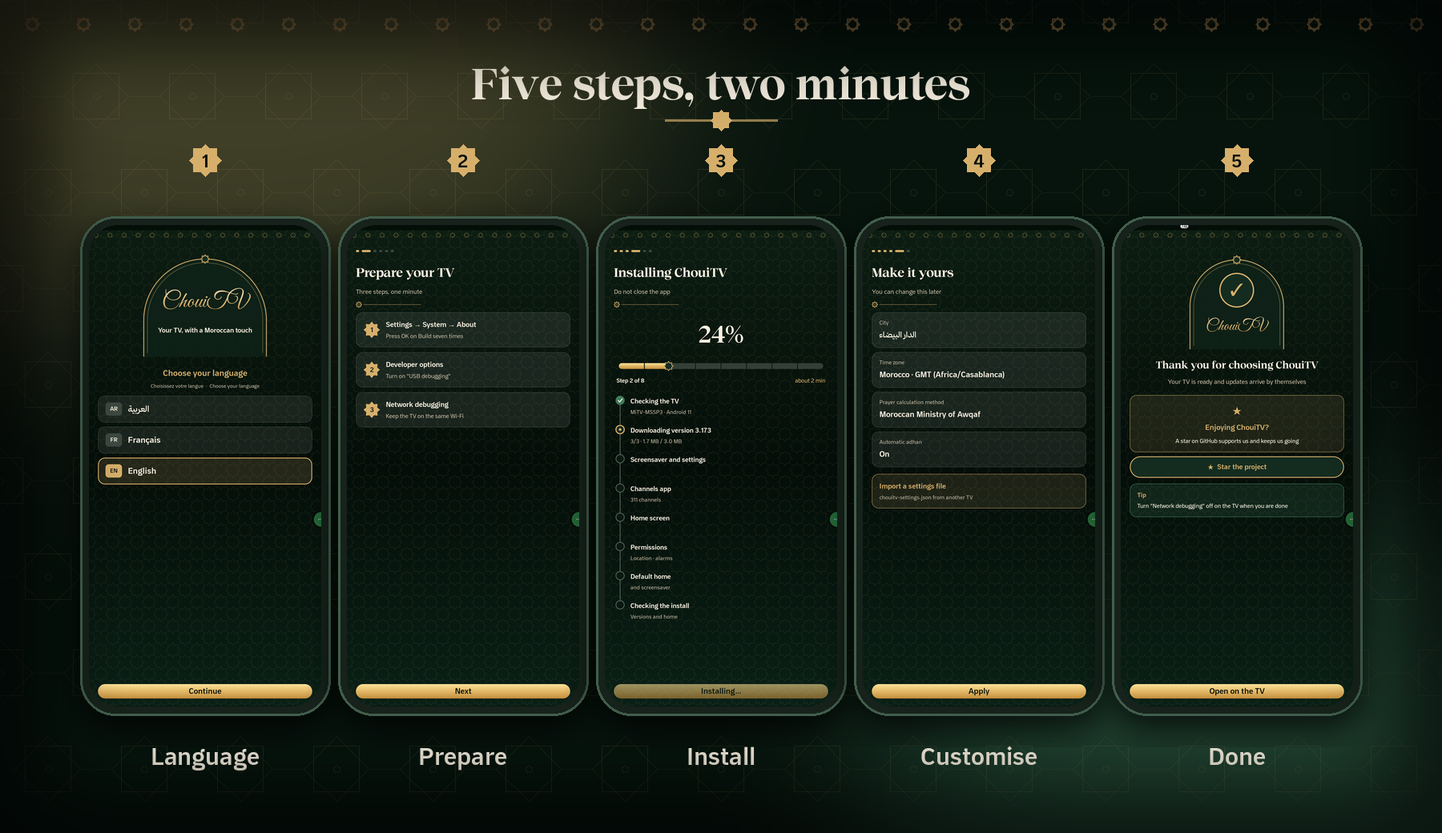
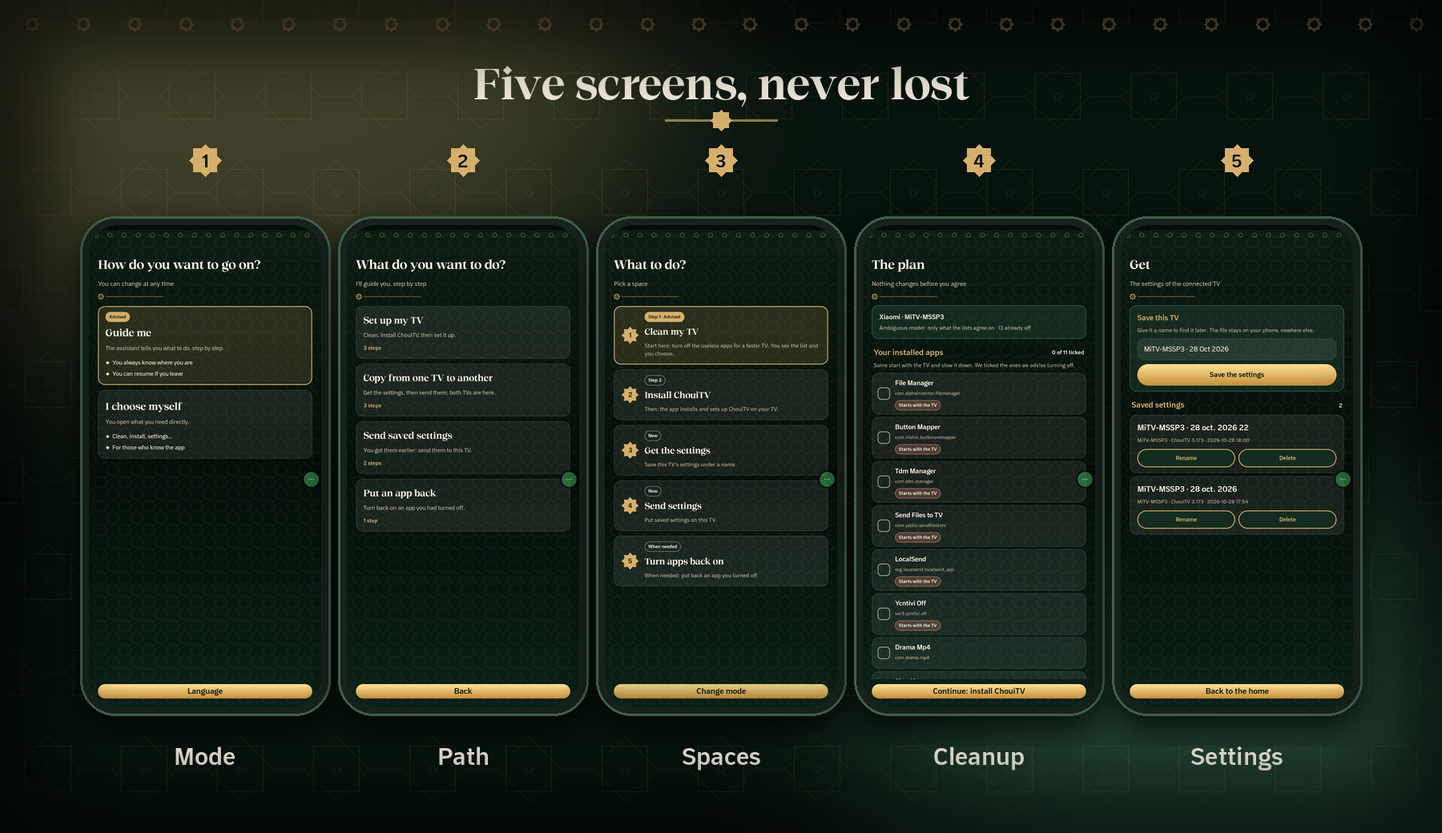
README 1.2: guided or free mode, five spaces, per-app cleanup, settings between TVs; new screenshots in three languages

diff --git a/README.md b/README.md
@@ -11,11 +11,11 @@
 <a href="https://github.com/EMCHOUIT/ChouiTV-Installer/stargazers"><img src="https://img.shields.io/github/stars/EMCHOUIT/ChouiTV-Installer?style=flat&color=D6AF6B&labelColor=0A1D14" alt="stars"></a>
 </p>
 
-<p align="center"><a href="#why">✨ لماذا</a> · <a href="#journey">🚀 الرحلة</a> · <a href="#installs">📦 ما يثبّته</a> · <a href="#safety">🛡 الأمان</a> · <a href="#cleanup">🧹 التنظيف</a> · <a href="#faq">❓ أسئلة</a> · <a href="#build">🛠 البناء</a> · <a href="#download">⬇ التحميل</a></p>
+<p align="center"><a href="#why">✨ لماذا</a> · <a href="#journey">🚀 الرحلة</a> · <a href="#installs">📦 ما يثبّته</a> · <a href="#safety">🛡 الأمان</a> · <a href="#cleanup">🧹 التنظيف</a> · <a href="#settings">🔁 الإعدادات</a> · <a href="#faq">❓ أسئلة</a> · <a href="#build">🛠 البناء</a> · <a href="#download">⬇ التحميل</a></p>
 
 <div dir="rtl" align="right">
 
-تطبيق صغير على هاتفك يجد تلفزيونك، وينزّل **أحدث إصدار** من [ChouiTV](https://github.com/EMCHOUIT/ChouiTV)، ويثبّته ويضبطه. **بلا كمبيوتر، بلا أوامر، في نحو دقيقتين.**
+تطبيق صغير على هاتفك يجد تلفزيونك، فينظّفه إن شئت، وينزّل **أحدث إصدار** من [ChouiTV](https://github.com/EMCHOUIT/ChouiTV) ويثبّته ويضبطه، ثم ينقل إعداداتك إلى تلفزيون آخر. **يرشدك خطوة بخطوة، أو تختار بنفسك. بلا كمبيوتر ولا أوامر.**
 
 <p align="center"><a href="https://github.com/EMCHOUIT/ChouiTV-Installer/releases/latest/download/ChouiTV-Installer.apk"><img src="https://img.shields.io/badge/%E2%AC%87%20نزّل%20ChouiTV%20Installer-D6AF6B?style=for-the-badge&labelColor=0A1D14" alt="download"></a><br><sub>لهاتف أندرويد 8 أو أحدث · الملف نحو 1 ميغابايت</sub></p>
 
@@ -24,25 +24,25 @@
 ## ✨ لماذا هذا التطبيق؟
 
 <table dir="rtl">
-<tr><td width="50%" valign="top">💻<br><b>بلا كمبيوتر</b><br><sub>كل شيء من الهاتف: الاتصال والتنزيل والتثبيت والضبط.</sub></td><td width="50%" valign="top">📊<br><b>تتابع كل شيء</b><br><sub>نسبة مئوية عامة، وثماني خطوات تراها تتقدّم واحدة بعد الأخرى.</sub></td></tr>
-<tr><td width="50%" valign="top">🛡<br><b>بشبكة أمان</b><br><sub>إن لم تفتح الواجهة الجديدة، يعيد التلفزيون واجهته الأصلية وحده.</sub></td><td width="50%" valign="top">🌍<br><b>بلغتك</b><br><sub>العربية والفرنسية والإنجليزية، بنفس العناية.</sub></td></tr>
+<tr><td width="50%" valign="top">🧭<br><b>يرشدك أو تختار</b><br><sub>أسلوب «دعني أُرشَد» بمساعد خطوة بخطوة، أو «أختار بنفسي» لخمس مساحات مباشرة.</sub></td><td width="50%" valign="top">🧹<br><b>تنظيف تتحكّم فيه</b><br><sub>خانة لكل تطبيق، بأسماء مفهومة، ولا شيء دون موافقتك.</sub></td></tr>
+<tr><td width="50%" valign="top">🔁<br><b>إعداداتك تتنقّل</b><br><sub>احفظ إعدادات تلفزيون باسم، وأرسلها إلى آخر الآن أو لاحقًا.</sub></td><td width="50%" valign="top">🛡<br><b>كل شيء قابل للتراجع</b><br><sub>تُوقَف التطبيقات ولا تُحذف، وشبكة أمان على التلفزيون.</sub></td></tr>
 </table>
 
 <a id="journey"></a>
 
-## 🚀 الرحلة في خمس خطوات
+## 🚀 الرحلة في خمس شاشات
 
 </div>
 
-<img src="docs/media/journey-ar.png" alt="🚀 الرحلة في خمس خطوات" width="100%">
+<img src="docs/media/journey-ar.png" alt="🚀 الرحلة في خمس شاشات" width="100%">
 
 <div dir="rtl" align="right">
 
-1. **اللغة**: اختر العربية أو الفرنسية أو الإنجليزية.
-2. **جهّز التلفزيون**: فعّل «تصحيح USB» و«تصحيح الشبكة»؛ الشرح داخل التطبيق.
-3. **اتصل**: يجد التطبيق تلفزيونك على الواي فاي، وتضغط «السماح» على شاشته.
-4. **ثبّت**: شريط تقدّم ونسبة مئوية وثماني مراحل، من الفحص إلى التحقق.
-5. **خصّص، نظّف اختياريًا، ثم تمّ**: المدينة والمنطقة الزمنية وطريقة حساب الصلاة؛ ثم تنظيف اختياري للتطبيقات المثبّتة مسبقًا؛ ثم شكر.
+1. **اللغة**: العربية أو الفرنسية أو الإنجليزية.
+2. **الأسلوب**: «دعني أُرشَد» (مساعد خطوة بخطوة، يمكنك الاستئناف إن خرجت) أو «أختار بنفسي».
+3. **المسار أو المساحات**: «جهّز تلفزيوني»، «انسخ من تلفزيون إلى آخر»، «أرسل إعدادات محفوظة»، «أعِد تطبيقًا»، أو المساحات الخمس مباشرة.
+4. **التنظيف**: ترى الخطة قبل أي تغيير، وتؤشّر على ما لا تستعمله.
+5. **التثبيت والضبط**: شريط تقدّم ونسبة مئوية، ثم المدينة والمنطقة الزمنية وطريقة حساب الصلاة.
 
 <a id="installs"></a>
 
@@ -62,7 +62,7 @@
 
 - **شبكة أمان**: قبل تعطيل واجهة التلفزيون الأصلية يضع التطبيق عليه سكربتًا يعيدها وحده بعد 5 دقائق إن لم يفتح ChouiTV.
 - **احترام تلفزيونك**: إن رفض تعطيل واجهته (مثل Nokia Streaming Box 8000) تبقى كما هي ويُخبَر المستخدم.
-- **تنظيف بلا مخاطرة**: التنظيف اختياري، يوقف التطبيقات ولا يحذفها، ويفحص التلفزيون بعد كل مجموعة ويعيدها وحده إن ساء الحال.
+- **تنظيف بلا مخاطرة**: التنظيف اختياري، يوقف التطبيقات ولا يحذفها، ويفحص التلفزيون بعد كل مجموعة ويعيدها وحده إن ساء الحال، وتعيد أي تطبيق من مساحة «أعِد تفعيل تطبيقات».
 - **خصوصية**: بلا حسابات ولا إعلانات ولا تتبّع، والمفتاح الذي يعرّف هاتفك يبقى فيه.
 
 </div>
@@ -83,15 +83,33 @@
 
 <div dir="rtl" align="right">
 
-تعرض عليك بعض التلفزيونات (Xiaomi وTCL وغيرها) تطبيقات مثبّتة مسبقًا لا تحتاجها: تتبّع وإحصاءات وإعلانات وخدمات تبطئ الجهاز. بعد التثبيت يقترح عليك التطبيق **تنظيفًا اختياريًا**.
+تأتي بعض التلفزيونات (Xiaomi وTCL وغيرها) بتطبيقات مثبّتة مسبقًا لا تحتاجها: تتبّع وإحصاءات وإعلانات وخدمات تبطئ الجهاز. وقد تكون لديك تطبيقات تبدأ مع التلفزيون ولا تستعملها. **التنظيف اختياري، وأنت من يقرّر.**
 
-- **يوقف ولا يحذف**: كل تطبيق يعود بلمسة واحدة من «استرجاع» في الشاشة الأولى.
-- **ترى الخطة قبل أي شيء**: الأسماء مجمّعة (التتبع، الإعلانات، المثبّتة مسبقًا، الاختيارية) وتختار ما تريد.
-- **قوائم مدروسة**: قائمة ChouiTV لتلفزيونات TCL، وقوائم مجتمعية لطراز تلفزيونك، وإن لم يُعرف الطراز فقط ما اتفقت عليه عدة قوائم.
+- **خانة لكل تطبيق**: «مثبّتة مسبقًا» (مؤشَّرة مسبقًا)، و«البث والترفيه» (Netflix وPrime Video وغيرها، غير مؤشَّرة)، و«تطبيقاتك المثبّتة» مع توصية على ما يبدأ مع التلفزيون ويبطئه.
+- **أسماء مفهومة**: اسم التطبيق وتحته اسم الحزمة.
+- **تأكيد قبل البدء**: تراجع القائمة وتترك بلا علامة ما تستعمله، فيبقى كما هو.
+- **يوقف ولا يحذف**: ويفحص التلفزيون بعد كل مجموعة، ويعيدها وحده إن ساء الحال، وإن انقطع الاتصال أعاد التلفزيون كل شيء خلال 5 دقائق.
 - **محمي دائمًا**: ChouiTV وخدمات Google والإعدادات وأي واجهة رئيسية.
-- **يفحص التلفزيون بعد كل مجموعة**: إن ساء الحال تُعاد المجموعة وحدها ويتوقف التنظيف، وإن انقطع الاتصال أعاد التلفزيون كل شيء خلال 5 دقائق.
+- **أعِد أي تطبيق متى شئت**: من مساحة «أعِد تفعيل تطبيقات»، وهي تقرأ ما هو موقوف على التلفزيون نفسه.
 
-نقطة الاسترجاع تُحفظ على الهاتف وعلى التلفزيون.
+</div>
+
+<a id="settings"></a>
+
+## 🔁 انسخ إعداداتك إلى تلفزيون آخر
+
+<img src="docs/media/settings-ar.png" alt="🔁 انسخ إعداداتك إلى تلفزيون آخر" width="100%">
+
+<div dir="rtl" align="right">
+
+استعمل مساحتَي **استرجاع إعدادات** و**إرسال إعدادات** (أو مسار «انسخ من تلفزيون إلى آخر» بمساعد).
+
+- **احفظ باسم تختاره**: تحفظ إعدادات التلفزيون المتصل (المدينة، الصلاة، الأذان، اللوحات، الفرق، اختصارات الرئيسية…) على هاتفك فقط.
+- **أرسل الآن أو لاحقًا**: إن كان التلفزيونان معًا فأرسل فورًا، وإلا خذ الإعدادات معك وأرسلها من «أرسل إعدادات محفوظة».
+- **معاينة وتراجع**: ترى التغييرات قبل التطبيق، ويحتفظ الإرسال بنسخة من الإعدادات السابقة.
+- **لا يُحفظ أبدًا**: عنوان IP أو اسم الواي فاي، الرقم التسلسلي، صورك ومهامك.
+
+يلزم ChouiTV 3.173 أو أحدث على التلفزيونين.
 
 <a id="faq"></a>
 
@@ -124,7 +142,17 @@
 
 <details><summary><b>كيف أتراجع عن التنظيف؟</b></summary>
 
-من الشاشة الأولى اختر «استرجاع ما أوقفه التنظيف»، ثم أعد تطبيقًا واحدًا أو الكل. وعلى التلفزيون نسخة نصية في `/data/local/tmp/chouitv-restore.txt`.
+افتح مساحة «أعِد تفعيل تطبيقات» وأشّر على ما تريد إرجاعه: تقرأ ما هو موقوف على التلفزيون نفسه، فيصلح أي هاتف. وعلى التلفزيون نسخة نصية في `/data/local/tmp/chouitv-restore.txt`.
+</details>
+
+<details><summary><b>ما الفرق بين «دعني أُرشَد» و«أختار بنفسي»؟</b></summary>
+
+الأول مساعد يخبرك بما تفعل خطوة بخطوة ويتيح الاستئناف إن خرجت. الثاني يفتح مباشرةً المساحات الخمس. ويمكنك تغيير الأسلوب في أي وقت.
+</details>
+
+<details><summary><b>كيف أنقل إعداداتي إلى تلفزيون آخر؟</b></summary>
+
+من «انسخ من تلفزيون إلى آخر»: تحفظ إعدادات التلفزيون الأول باسم، ثم ترسلها الآن إن كان التلفزيونان معًا، أو لاحقًا من «أرسل إعدادات محفوظة». يلزم ChouiTV 3.173 أو أحدث على التلفزيونين، وتُعرض المعاينة قبل التطبيق ويمكن التراجع.
 </details>
 
 <a id="build"></a>

diff --git a/README.fr.md b/README.fr.md
@@ -11,9 +11,9 @@
 <a href="https://github.com/EMCHOUIT/ChouiTV-Installer/stargazers"><img src="https://img.shields.io/github/stars/EMCHOUIT/ChouiTV-Installer?style=flat&color=D6AF6B&labelColor=0A1D14" alt="stars"></a>
 </p>
 
-<p align="center"><a href="#why">✨ Pourquoi</a> · <a href="#journey">🚀 Le parcours</a> · <a href="#installs">📦 Installé</a> · <a href="#safety">🛡 Sécurité</a> · <a href="#cleanup">🧹 Nettoyage</a> · <a href="#faq">❓ FAQ</a> · <a href="#build">🛠 Compiler</a> · <a href="#download">⬇ Téléchargement</a></p>
+<p align="center"><a href="#why">✨ Pourquoi</a> · <a href="#journey">🚀 Le parcours</a> · <a href="#installs">📦 Installé</a> · <a href="#safety">🛡 Sécurité</a> · <a href="#cleanup">🧹 Nettoyage</a> · <a href="#settings">🔁 Réglages</a> · <a href="#faq">❓ FAQ</a> · <a href="#build">🛠 Compiler</a> · <a href="#download">⬇ Téléchargement</a></p>
 
-Une petite appli sur votre téléphone qui trouve votre télé, télécharge la **dernière version** de [ChouiTV](https://github.com/EMCHOUIT/ChouiTV), l'installe et la règle. **Sans ordinateur, sans commande, en environ deux minutes.**
+Une petite appli sur votre téléphone qui trouve votre télé, la nettoie si vous le voulez, télécharge la **dernière version** de [ChouiTV](https://github.com/EMCHOUIT/ChouiTV), l'installe et la règle, puis copie vos réglages sur une autre télé. **Elle vous guide pas à pas, ou vous choisissez vous-même. Sans ordinateur, sans commande.**
 
 <p align="center"><a href="https://github.com/EMCHOUIT/ChouiTV-Installer/releases/latest/download/ChouiTV-Installer.apk"><img src="https://img.shields.io/badge/%E2%AC%87%20Télécharger%20ChouiTV%20Installer-D6AF6B?style=for-the-badge&labelColor=0A1D14" alt="download"></a><br><sub>Pour téléphone Android 8 ou plus · environ 1 Mo</sub></p>
 
@@ -22,21 +22,21 @@ Une petite appli sur votre téléphone qui trouve votre télé, télécharge la 
 ## ✨ Pourquoi cette appli ?
 
 <table>
-<tr><td width="50%" valign="top">💻<br><b>Sans ordinateur</b><br><sub>Tout se fait depuis le téléphone : connexion, téléchargement, installation, réglages.</sub></td><td width="50%" valign="top">📊<br><b>Vous voyez tout</b><br><sub>Un pourcentage global et huit étapes qui avancent une à une sous vos yeux.</sub></td></tr>
-<tr><td width="50%" valign="top">🛡<br><b>Avec filet de sécurité</b><br><sub>Si le nouvel accueil ne s'ouvre pas, la télé rétablit seule le sien.</sub></td><td width="50%" valign="top">🌍<br><b>Dans votre langue</b><br><sub>Arabe, français et anglais, avec le même soin.</sub></td></tr>
+<tr><td width="50%" valign="top">🧭<br><b>Guidé ou libre</b><br><sub>Un assistant pas à pas, ou cinq espaces à ouvrir directement.</sub></td><td width="50%" valign="top">🧹<br><b>Un nettoyage que vous contrôlez</b><br><sub>Une case par appli, avec des noms lisibles, et rien sans votre accord.</sub></td></tr>
+<tr><td width="50%" valign="top">🔁<br><b>Vos réglages voyagent</b><br><sub>Enregistrez les réglages d'une télé sous un nom, envoyez-les à une autre, maintenant ou plus tard.</sub></td><td width="50%" valign="top">🛡<br><b>Tout est annulable</b><br><sub>Les applis sont coupées, pas supprimées, avec un filet de sécurité sur la télé.</sub></td></tr>
 </table>
 
 <a id="journey"></a>
 
-## 🚀 Le parcours en cinq étapes
+## 🚀 Le parcours en cinq écrans
 
-<img src="docs/media/journey-fr.png" alt="🚀 Le parcours en cinq étapes" width="100%">
+<img src="docs/media/journey-fr.png" alt="🚀 Le parcours en cinq écrans" width="100%">
 
 1. **Langue** : arabe, français ou anglais.
-2. **Préparez la télé** : activez le « Débogage USB » et le « Débogage réseau » ; c'est expliqué dans l'appli.
-3. **Connectez-vous** : l'appli trouve la télé sur le Wi-Fi, vous appuyez sur « Autoriser » sur son écran.
-4. **Installation** : une barre avec pourcentage et huit étapes, de la vérification au contrôle final.
-5. **Personnalisez, nettoyez (facultatif), puis c'est fini** : ville, fuseau horaire, méthode de prière ; un nettoyage facultatif des applis préinstallées ; un merci.
+2. **Le mode** : « Je me laisse guider » (un assistant pas à pas, avec reprise si vous quittez) ou « Je choisis moi-même ».
+3. **Le parcours ou les espaces** : « Équiper ma télé », « Copier d'une télé à l'autre », « Envoyer des réglages enregistrés », « Remettre une appli », ou les cinq espaces directement.
+4. **Le nettoyage** : vous voyez le plan avant tout changement et vous cochez ce que vous n'utilisez pas.
+5. **Installation et réglages** : une barre avec pourcentage, puis ville, fuseau horaire et méthode de prière.
 
 <a id="installs"></a>
 
@@ -56,7 +56,7 @@ L'appli lit la version dans [`latest.json`](https://raw.githubusercontent.com/EM
 
 - **Filet de sécurité** : avant de couper l'accueil d'origine, l'appli arme sur la télé un script qui le rétablit tout seul au bout de 5 minutes si ChouiTV ne s'ouvre pas.
 - **Respect de votre télé** : si elle refuse de couper son accueil (comme la Nokia Streaming Box 8000), il est conservé et vous en êtes informé.
-- **Nettoyage sans risque** : il est facultatif, il coupe sans supprimer, vérifie la télé après chaque groupe et remet tout en place si elle va mal.
+- **Nettoyage sans risque** : il est facultatif, il coupe sans supprimer, vérifie la télé après chaque groupe et remet tout en place si elle va mal ; l'espace « Réactiver des applis » remet une appli à la demande.
 - **Vie privée** : pas de compte, pas de publicité, pas de suivi ; la clé qui identifie votre téléphone y reste.
 
 > [!TIP]
@@ -69,15 +69,29 @@ L'appli lit la version dans [`latest.json`](https://raw.githubusercontent.com/EM
 
 <img src="docs/media/cleanup-fr.png" alt="🧹 Nettoyez votre télé en sécurité" width="100%">
 
-Certaines télés (Xiaomi, TCL, etc.) arrivent avec des applis préinstallées dont vous n'avez pas besoin : suivi, statistiques, publicités, services qui ralentissent l'appareil. Après l'installation, l'appli vous propose un **nettoyage facultatif**.
+Certaines télés (Xiaomi, TCL, etc.) arrivent avec des applis préinstallées dont vous n'avez pas besoin : suivi, statistiques, publicités, services qui ralentissent l'appareil. Vous avez aussi peut-être des applis qui démarrent avec la télé sans que vous les utilisiez. **Le nettoyage est facultatif, et c'est vous qui décidez.**
 
-- **On coupe, on ne supprime pas** : chaque appli revient en un geste depuis « Restaurer » sur le premier écran.
-- **Vous voyez le plan avant tout** : les applis sont rangées par groupe (suivi, publicités, préinstallées, facultatives) et vous choisissez.
-- **Des listes réfléchies** : la liste ChouiTV pour les TCL, des listes communautaires pour le modèle de votre télé, et si le modèle est inconnu, seulement ce sur quoi plusieurs listes s'accordent.
+- **Une case par appli** : « Applis préinstallées » (cochées d'avance), « Streaming et divertissement » (Netflix, Prime Video… décochées) et « Vos applis installées », avec un conseil pour celles qui démarrent avec la télé et la ralentissent.
+- **Des noms lisibles** : le nom de l'appli, son paquet en dessous.
+- **Une confirmation avant de commencer** : vous relisez la liste et laissez décochées celles que vous utilisez, elles restent intactes.
+- **On coupe, on ne supprime pas** : la télé est vérifiée après chaque groupe, remise en place si elle va mal, et si la connexion est perdue elle remet tout d'elle-même au bout de 5 minutes.
 - **Toujours protégé** : ChouiTV, les services Google, les réglages et tout écran d'accueil.
-- **La télé est vérifiée après chaque groupe** : si elle va mal, le groupe est remis en place et le nettoyage s'arrête ; si la connexion est perdue, la télé remet tout en place d'elle-même au bout de 5 minutes.
+- **Remettez une appli quand vous voulez** : l'espace « Réactiver des applis » lit ce qui est coupé sur la télé elle-même.
 
-Le point de restauration est gardé sur le téléphone et sur la télé.
+<a id="settings"></a>
+
+## 🔁 Copiez vos réglages sur une autre télé
+
+<img src="docs/media/settings-fr.png" alt="🔁 Copiez vos réglages sur une autre télé" width="100%">
+
+Utilisez les espaces **Récupérer des réglages** et **Envoyer des réglages** (ou le parcours guidé « Copier d'une télé à l'autre »).
+
+- **Enregistrez sous un nom** : les réglages de la télé connectée (ville, prière, adhan, panneaux, équipes, raccourcis de l'accueil…) sont gardés sur votre téléphone, nulle part ailleurs.
+- **Envoyez maintenant ou plus tard** : si les deux télés sont ensemble, envoyez tout de suite ; sinon emportez les réglages et envoyez-les depuis « Envoyer des réglages enregistrés ».
+- **Aperçu et annulation** : vous voyez les changements avant de les appliquer, et l'envoi garde une copie des réglages précédents.
+- **Jamais enregistré** : l'adresse IP ou le nom du Wi-Fi, le numéro de série, vos photos et vos tâches.
+
+ChouiTV 3.173 ou plus est nécessaire sur les deux télés.
 
 <a id="faq"></a>
 
@@ -110,7 +124,17 @@ Il est facultatif, il coupe sans supprimer, vous montre le plan d'abord et véri
 
 <details><summary><b>Comment annuler un nettoyage ?</b></summary>
 
-Depuis le premier écran, choisissez « Restaurer après un nettoyage », puis remettez une appli ou toutes. Une copie en texte est aussi sur la télé : `/data/local/tmp/chouitv-restore.txt`.
+Ouvrez l'espace « Réactiver des applis » et cochez celles que vous voulez remettre : il lit ce qui est coupé sur la télé elle-même, n'importe quel téléphone peut donc le faire. Une copie en texte est aussi sur la télé : `/data/local/tmp/chouitv-restore.txt`.
+</details>
+
+<details><summary><b>Quelle différence entre « Je me laisse guider » et « Je choisis moi-même » ?</b></summary>
+
+Le premier est un assistant qui vous dit quoi faire étape par étape et permet de reprendre si vous quittez. Le second ouvre directement les cinq espaces. Vous pouvez changer de mode à tout moment.
+</details>
+
+<details><summary><b>Comment copier mes réglages sur une autre télé ?</b></summary>
+
+Avec « Copier d'une télé à l'autre » : vous enregistrez les réglages de la première télé sous un nom, puis vous les envoyez tout de suite si les deux télés sont ensemble, ou plus tard depuis « Envoyer des réglages enregistrés ». ChouiTV 3.173 ou plus est nécessaire sur les deux télés ; l'aperçu s'affiche avant d'appliquer et l'envoi peut s'annuler.
 </details>
 
 <a id="build"></a>

diff --git a/README.en.md b/README.en.md
@@ -11,9 +11,9 @@
 <a href="https://github.com/EMCHOUIT/ChouiTV-Installer/stargazers"><img src="https://img.shields.io/github/stars/EMCHOUIT/ChouiTV-Installer?style=flat&color=D6AF6B&labelColor=0A1D14" alt="stars"></a>
 </p>
 
-<p align="center"><a href="#why">✨ Why</a> · <a href="#journey">🚀 The journey</a> · <a href="#installs">📦 Installed</a> · <a href="#safety">🛡 Safety</a> · <a href="#cleanup">🧹 Cleanup</a> · <a href="#faq">❓ FAQ</a> · <a href="#build">🛠 Build</a> · <a href="#download">⬇ Download</a></p>
+<p align="center"><a href="#why">✨ Why</a> · <a href="#journey">🚀 The journey</a> · <a href="#installs">📦 Installed</a> · <a href="#safety">🛡 Safety</a> · <a href="#cleanup">🧹 Cleanup</a> · <a href="#settings">🔁 Settings</a> · <a href="#faq">❓ FAQ</a> · <a href="#build">🛠 Build</a> · <a href="#download">⬇ Download</a></p>
 
-A small app on your phone that finds your TV, downloads the **latest version** of [ChouiTV](https://github.com/EMCHOUIT/ChouiTV), installs it and sets it up. **No computer, no commands, in about two minutes.**
+A small app on your phone that finds your TV, cleans it if you want, downloads the **latest version** of [ChouiTV](https://github.com/EMCHOUIT/ChouiTV), installs and sets it up, then copies your settings to another TV. **It guides you step by step, or you choose yourself. No computer, no commands.**
 
 <p align="center"><a href="https://github.com/EMCHOUIT/ChouiTV-Installer/releases/latest/download/ChouiTV-Installer.apk"><img src="https://img.shields.io/badge/%E2%AC%87%20Download%20ChouiTV%20Installer-D6AF6B?style=for-the-badge&labelColor=0A1D14" alt="download"></a><br><sub>For Android 8+ phones · about 1 MB</sub></p>
 
@@ -22,21 +22,21 @@ A small app on your phone that finds your TV, downloads the **latest version** o
 ## ✨ Why this app?
 
 <table>
-<tr><td width="50%" valign="top">💻<br><b>No computer</b><br><sub>Everything happens on the phone: connect, download, install, set up.</sub></td><td width="50%" valign="top">📊<br><b>You see everything</b><br><sub>A global percentage and eight steps moving forward one by one in front of you.</sub></td></tr>
-<tr><td width="50%" valign="top">🛡<br><b>With a safety net</b><br><sub>If the new home does not open, the TV puts its own back by itself.</sub></td><td width="50%" valign="top">🌍<br><b>In your language</b><br><sub>Arabic, French and English, with the same care.</sub></td></tr>
+<tr><td width="50%" valign="top">🧭<br><b>Guided or free</b><br><sub>A step-by-step assistant, or five spaces to open directly.</sub></td><td width="50%" valign="top">🧹<br><b>A cleanup you control</b><br><sub>One box per app, with readable names, and nothing without your say.</sub></td></tr>
+<tr><td width="50%" valign="top">🔁<br><b>Your settings travel</b><br><sub>Save one TV's settings under a name, send them to another, now or later.</sub></td><td width="50%" valign="top">🛡<br><b>Everything can be undone</b><br><sub>Apps are turned off, not deleted, with a safety net on the TV.</sub></td></tr>
 </table>
 
 <a id="journey"></a>
 
-## 🚀 The journey in five steps
+## 🚀 The journey in five screens
 
-<img src="docs/media/journey-en.png" alt="🚀 The journey in five steps" width="100%">
+<img src="docs/media/journey-en.png" alt="🚀 The journey in five screens" width="100%">
 
 1. **Language**: Arabic, French or English.
-2. **Prepare the TV**: turn on "USB debugging" and "Network debugging"; it is explained in the app.
-3. **Connect**: the app finds the TV on the Wi-Fi, and you press "Allow" on its screen.
-4. **Install**: a bar with a percentage and eight steps, from the check to the final verification.
-5. **Make it yours, clean up (optional), then done**: city, time zone, prayer method; an optional cleanup of the preinstalled apps; a thank-you.
+2. **The mode**: "Guide me" (a step-by-step assistant, with resume if you leave) or "I choose myself".
+3. **The path or the spaces**: "Set up my TV", "Copy from one TV to another", "Send saved settings", "Put an app back", or the five spaces directly.
+4. **The cleanup**: you see the plan before any change and tick what you do not use.
+5. **Install and settings**: a bar with a percentage, then city, time zone and prayer method.
 
 <a id="installs"></a>
 
@@ -56,7 +56,7 @@ The app reads the version from [`latest.json`](https://raw.githubusercontent.com
 
 - **Safety net**: before turning the TV's original home off, the app arms a script on the TV that puts it back by itself after 5 minutes if ChouiTV does not open.
 - **Respect for your TV**: if it refuses to turn its home off (like the Nokia Streaming Box 8000), it keeps it and you are told.
-- **Cleanup without risk**: it is optional, turns apps off without deleting them, checks the TV after each group and puts them back if it gets unwell.
+- **Cleanup without risk**: it is optional, turns apps off without deleting them, checks the TV after each group and puts them back if it gets unwell; the "Turn apps back on" space puts an app back whenever you want.
 - **Privacy**: no accounts, no ads, no tracking; the key that identifies your phone stays in it.
 
 > [!TIP]
@@ -69,15 +69,29 @@ The app reads the version from [`latest.json`](https://raw.githubusercontent.com
 
 <img src="docs/media/cleanup-en.png" alt="🧹 Clean your TV, safely" width="100%">
 
-Some TVs (Xiaomi, TCL and others) ship with preinstalled apps you do not need: tracking, analytics, ads, services that slow the device down. After the install the app offers an **optional cleanup**.
+Some TVs (Xiaomi, TCL and others) ship with preinstalled apps you do not need: tracking, analytics, ads, services that slow the device down. You may also have apps that start with the TV without you using them. **The cleanup is optional, and you decide.**
 
-- **Turned off, never deleted**: every app comes back in one tap from "Restore" on the first screen.
-- **You see the plan first**: apps are grouped (tracking, ads, preinstalled, optional) and you choose.
-- **Careful lists**: ChouiTV's list for TCL, community lists for your TV's model, and when the model is unknown only what several lists agree on.
+- **One box per app**: "Preinstalled apps" (ticked for you), "Streaming and entertainment" (Netflix, Prime Video… unticked) and "Your installed apps", with an advice for the ones that start with the TV and slow it down.
+- **Readable names**: the app name, its package below.
+- **A confirmation before it starts**: you look over the list and leave unticked the ones you use, they stay untouched.
+- **Turned off, never deleted**: the TV is checked after each group, put back if it gets unwell, and if the connection is lost it puts everything back by itself within 5 minutes.
 - **Always protected**: ChouiTV, Google services, the settings and any home screen.
-- **The TV is checked after each group**: if it gets unwell the group is put back and the cleanup stops; if the connection is lost the TV puts everything back by itself within 5 minutes.
+- **Put an app back any time**: the "Turn apps back on" space reads what is off on the TV itself.
 
-The restore point is kept on the phone and on the TV.
+<a id="settings"></a>
+
+## 🔁 Copy your settings to another TV
+
+<img src="docs/media/settings-en.png" alt="🔁 Copy your settings to another TV" width="100%">
+
+Use the **Get the settings** and **Send settings** spaces (or the guided "Copy from one TV to another" path).
+
+- **Save under a name**: the settings of the connected TV (city, prayer, adhan, panels, teams, home shortcuts…) are kept on your phone, nowhere else.
+- **Send now or later**: if both TVs are together, send right away; otherwise take the settings with you and send them from "Send saved settings".
+- **Preview and undo**: you see the changes before applying them, and the send keeps a copy of the previous settings.
+- **Never saved**: the IP address or Wi-Fi name, the serial number, your photos and your tasks.
+
+ChouiTV 3.173 or newer is needed on both TVs.
 
 <a id="faq"></a>
 
@@ -110,7 +124,17 @@ It is optional, turns apps off without deleting them, shows you the plan first a
 
 <details><summary><b>How do I undo a cleanup?</b></summary>
 
-From the first screen choose "Restore after a cleanup", then put one app or all of them back. A plain-text copy is also on the TV: `/data/local/tmp/chouitv-restore.txt`.
+Open the "Turn apps back on" space and tick the ones you want back: it reads what is off on the TV itself, so any phone can do it. A plain-text copy is also on the TV: `/data/local/tmp/chouitv-restore.txt`.
+</details>
+
+<details><summary><b>What is the difference between "Guide me" and "I choose myself"?</b></summary>
+
+The first is an assistant that tells you what to do step by step and lets you resume if you leave. The second opens the five spaces directly. You can change the mode at any time.
+</details>
+
+<details><summary><b>How do I copy my settings to another TV?</b></summary>
+
+With "Copy from one TV to another": you save the first TV's settings under a name, then send them right away if both TVs are together, or later from "Send saved settings". ChouiTV 3.173 or newer is needed on both TVs; the preview shows before applying and the send can be undone.
 </details>
 
 <a id="build"></a>
